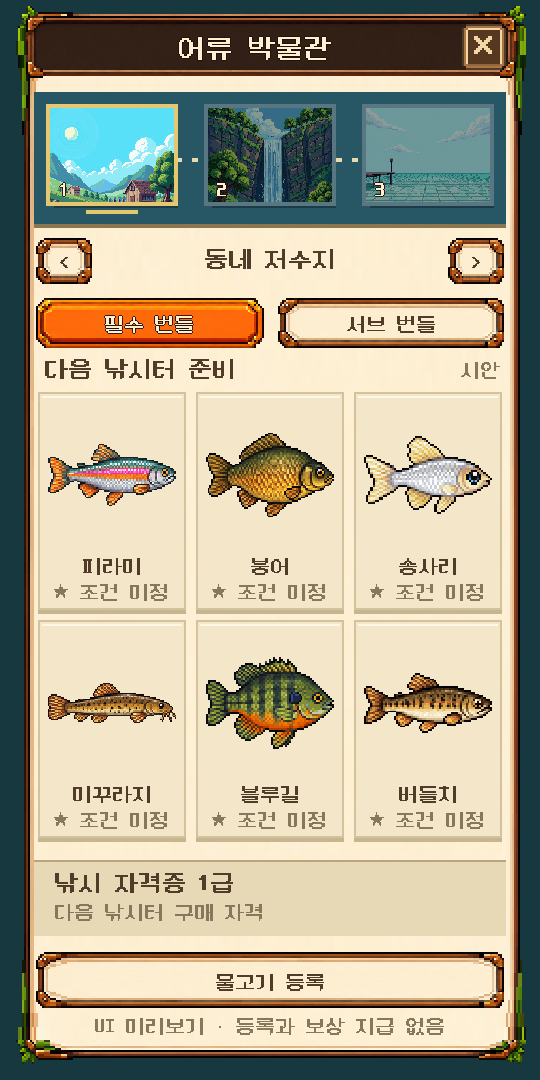
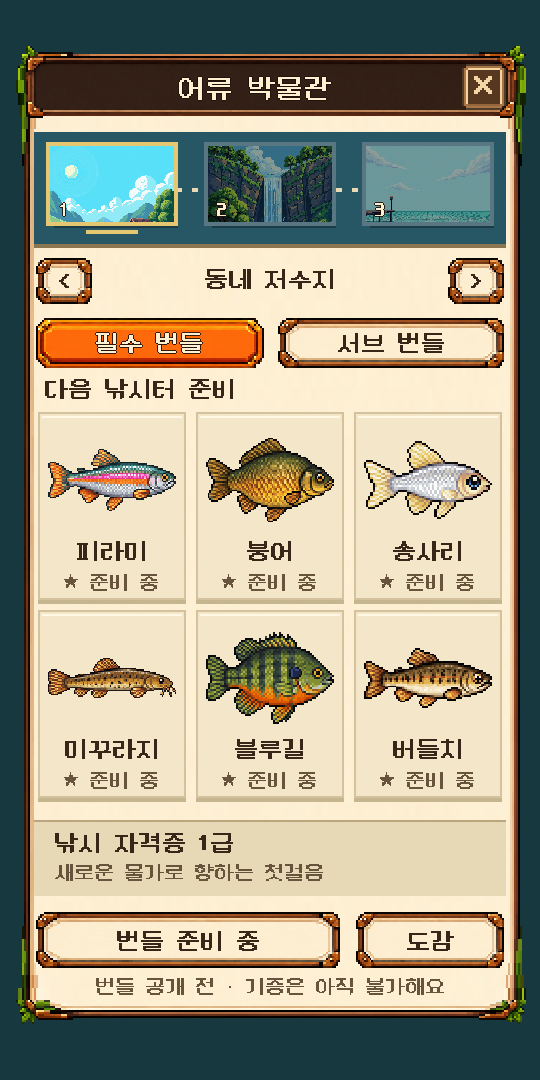
Release 0.66: compact readable museum preview, fish clarity and village audio

diff --git a/HANDOFF.md b/HANDOFF.md
@@ -1,3 +1,10 @@
+# 0.66 배포 준비 — 최신 승인 및 상태
+사용자 명시 승인: "그렇게 수정 /개선/보완해서 배포까지하자 이번엔". 이전 배포 금지보다 우선. 기준 main7d486ffd / v0.65, 작업 head feae95ad.
+번들 패널 높이540기준528→490(약7~8%) 및 중앙 정렬, 지도높이66→56. 제목/기존버튼 유지, 어종 이름/탭12px, 진한 갈색 글자. 자격증 설명 "새로운 물가로 향하는 첫걸음". 조건 미정이므로 기증/보상은 연결하지 않고 준비 중 공개. 박물관 일반 실행에서 접근 가능; 도감 버튼 및 번들 복귀 제공. 서브20%는 기존 가안, 마지막 지역 보상은 미정. 어종은 배치 예시.
+0.66에 기존 작업도 포함: 물고기 선명도/꼬리 유지/오라 중첩 감소, 마을 배경음/갈매기/뱃고동, 클릭음 분리, 착수/물보라 성공 텍스트 애니메이션. 새 우편0.66 추가.
+검증: Godot4.4.1 import, equipment/visual/shop/audio_save/guide/bundle_preview 총6개 통과, Android PCK export 성공. guide 테스트는 최신우편 기대값0.65→0.66 업데이트 후 통과. 480/540/600 UI 검사, 도감 왕복/재화무변경 확인. 실제 엔진 화면 docs/previews/bundle-ui.png. 휴대폰 미검증.
+다음: 작업 checkpoint→main fast-forward로 자동빌드/배포, Release/운영manifest/PCK/소스ZIP 해시 확인 후 상태 갱신. 현재 이 기록 시점 아직 미배포.
+
 # 최신: 번들 UI 엔진 미리보기 (미배포)
 사용자 승인: 간결한 지도형 시안 유지, 제목/버튼은 기존 게임 디자인, 최소 이미지 및 레이어 디테일. game/addons/reservoir/bundle_preview.gd 추가. --bundle-preview 인수로 실행한 박물관에서만 표시된다. 일반 실행의 도감/경제/낚시터 해금은 변경 없음.
 기존 hud_reference_style/sb_btn/sb_panel/지역 배경/물고기를 재사용. 지도는 지역 썸네일+연결선, 현재 지역 테두리, 카드 1px 하이라이트·음영으로 구성. 신규 PNG 에셋 0개. PixelLab 플러그인 검색 결과 없음; 다른 생성기로 새 아트를 대체하지 않음.

diff --git a/CHANGELOG.md b/CHANGELOG.md
@@ -1,3 +1,9 @@
+# 0.66 — 배포 준비
+- 번들창 높이 축소·글자 확대/대비 개선, 자격증 문구 변경.
+- 박물관 번들 준비 중 화면 공개, 기존 도감 유지.
+- 물고기 선명도, 마을 사운드, UI클릭, 챔질 텍스트 등 누적 수정 포함.
+- 번들 기증/보상/해금 조건은 미정이며 실제 기능 미연결.
+
 # 미배포 — 번들 UI 미리보기
 - 기존 제목/버튼과 원본 물고기/지역 이미지 재사용, 얇은 음영/선택 레이어.
 - 개발 인수 --bundle-preview 전용: 지역/탭/상세 선택. 실제 기증/보상/해금 변경 없음.
